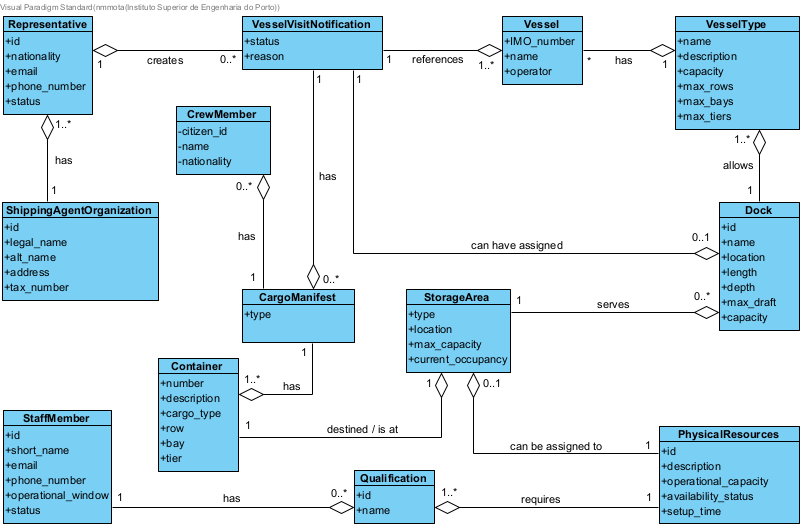
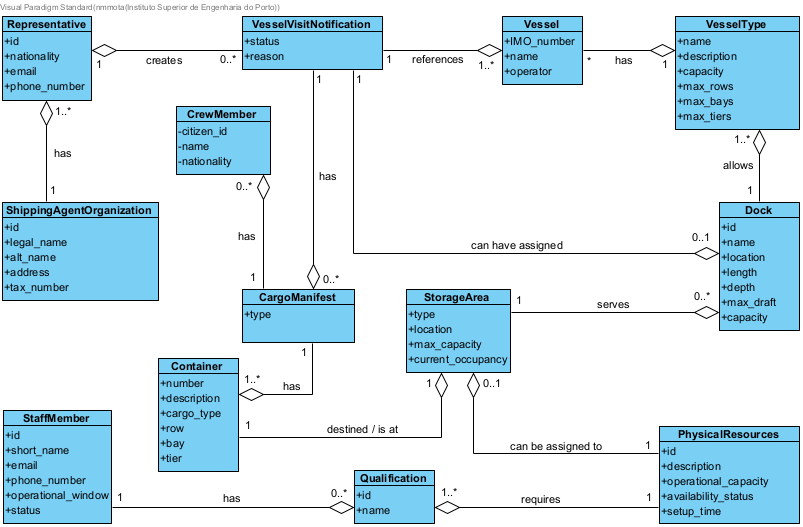
in-progress #25 Added Level 1 SD for US 2.2.6.

Changed region(s): [[0.0, 0.0304, 0.1557, 0.2732], [0.0623, 0.2732, 0.0934, 0.334], [0.1868, 0.0911, 0.2179, 0.1214]]

diff --git a/docs/Sprint A/Project Analysis/User Stories/README.md b/docs/Sprint A/Project Analysis/User Stories/README.md
@@ -1,0 +1,17 @@
+## User Stories
+
+| Number                                         | Short Name                             |
+|------------------------------------------------|----------------------------------------|
+| 2.2.1.                                         | Create/Update Vessel Type              |
+| 2.2.2.                                         | Create/Update Vessel                   |
+| 2.2.3.                                         | Create/Update Dock                     |
+| 2.2.4.                                         | Create/Update Storage Area             |
+| 2.2.5.                                         | Create Shipping Agent Organization     |
+| [2.2.6.](2.2.6.%20CreateUpdateRepresentative/) | Create/Update Representative           |
+| 2.2.7.                                         | Review Vessel Visit Notification       |
+| 2.2.8.                                         | Create Vessel Visit Notification       |
+| 2.2.9.                                         | Update Vessel Visit Notification       |
+| 2.2.10.                                        | View Vessel Visit Notifications Status |
+| 2.2.11.                                        | Create/Update Staff Member             |
+| 2.2.12.                                        | Create/Update Physical Resource        |
+| 2.2.13.                                        | Create/Update Qualification            |

diff --git a/docs/Sprint A/Sprint Planning/README.md b/docs/Sprint A/Sprint Planning/README.md
@@ -63,9 +63,9 @@ The assignee of the User Story is responsable for it, but each individual task c
 
 ## Priorities and dependencies
 
- 1. **Vessel Type**, **Qualification** and **Shipping Agent Organization** don't have dependencies and can be prioritized.
+ 1. **Vessel Type**, **Qualification** and **Representative** don't have dependencies and can be prioritized.
 
- 2. **Dock** and **Vessel** depend on Vessel Type. **Staff Member** depends on Qualification. **Representative** depends on Shipping Agent Organization. These can be prioritized after those.
+ 2. **Dock** and **Vessel** depend on Vessel Type. **Staff Member** depends on Qualification. **Shipping Agent Organization** depends on Representative. These can be prioritized after those.
  
  3. **Storage Area** can depend on Dock, but by default, Dock can be ommited, so depending on how the workflow is going, can be done before Dock, but ideally Dock should be prioritized.
 

diff --git a/docs/Sprint A/Project Analysis/User Stories/2.2.6. CreateUpdateRepresentative/README.md b/docs/Sprint A/Project Analysis/User Stories/2.2.6. CreateUpdateRepresentative/README.md
@@ -1,0 +1,18 @@
+## User Story 2.2.6. Create/Update Representative
+
+### 2.2.6. As a Port Authority Officer, I want to register and manage representatives of a shipping agent organization (create, update, deactivate), so that the right individuals are authorized to interact with the system on behalf of their organization.
+**Acceptance Criteria / Comments:**
+ - Each representative must be associated with exactly one shipping agent organization.
+ - Required representative details include name, citizen ID, nationality, email, and phone number.
+
+### SD Level 1
+
+![SD_L1](../SD_L1_Generic_PAO_PPD.png)
+
+### SD Level 2
+
+N/A
+
+### SD Level 3
+
+N/A

diff --git a/docs/Sprint A/Weekly Meetings/README.md b/docs/Sprint A/Weekly Meetings/README.md
@@ -47,7 +47,7 @@
 
  - Since half the team doesn't have LAPR5, we decided to change the weekly meeting to the ARQSI PL.
 
- ### Week 5 (13/10 ~ 19/10)
+### Week 5 (13/10 ~ 19/10)
 
 **Meeting Date:** 16/10<br>
 **Scrum Master:** 1080714
